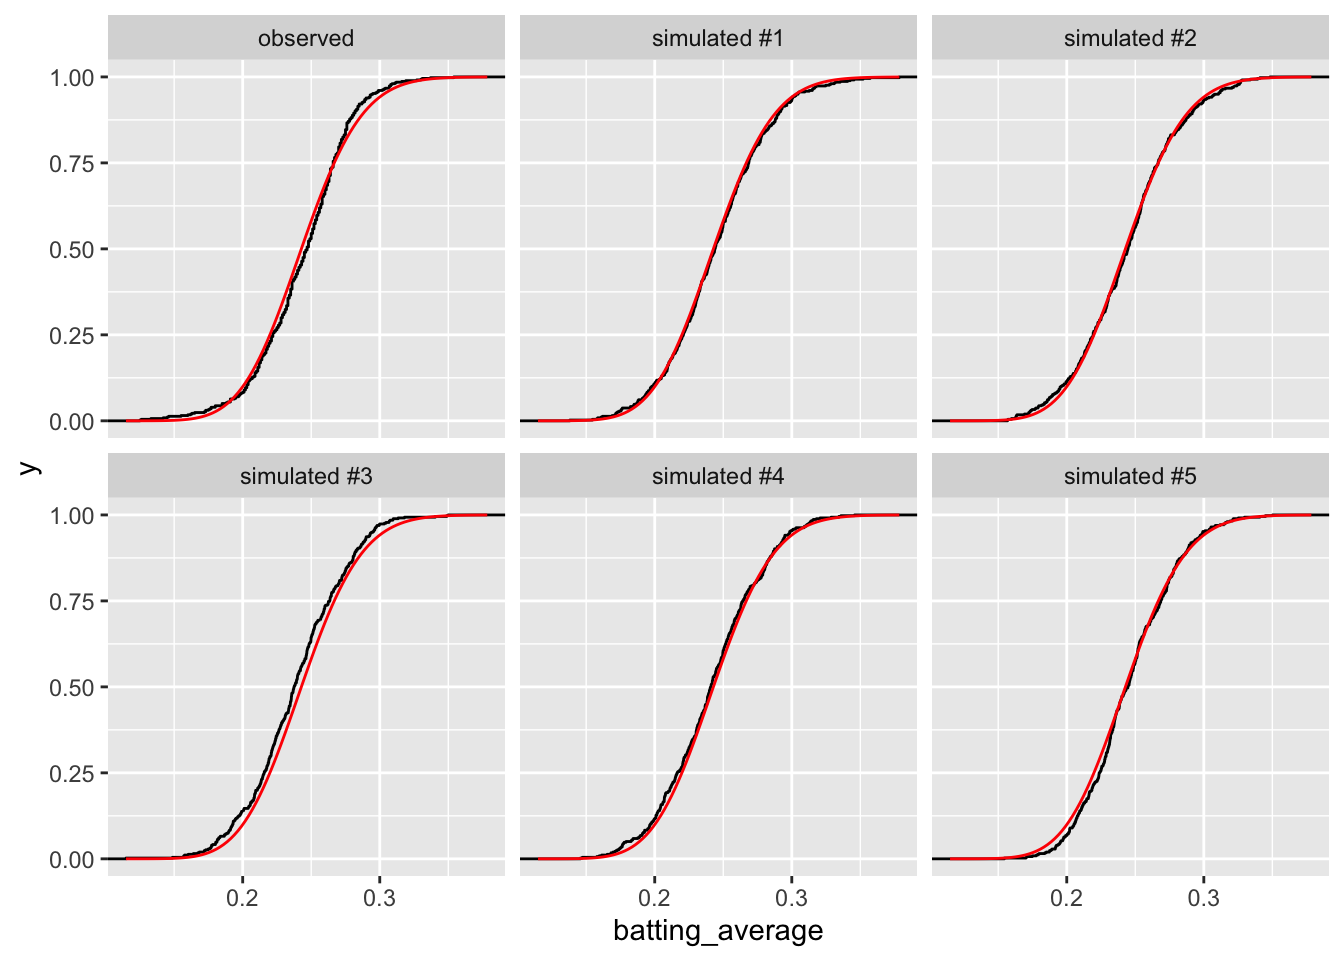
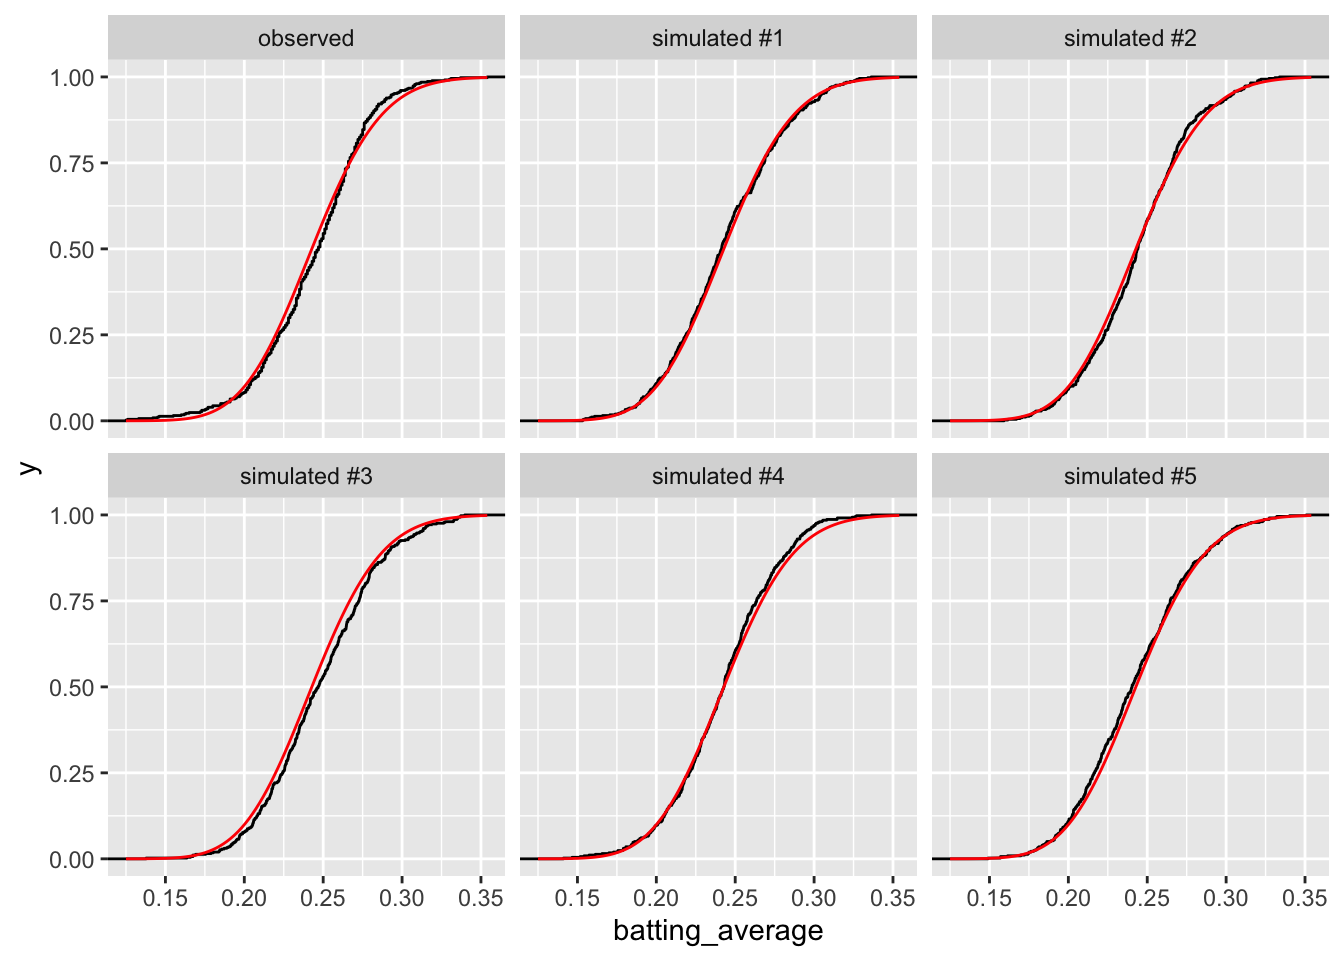
Add GA

diff --git a/docs/wk02/03-predictive-distribution.html b/docs/wk02/03-predictive-distribution.html
@@ -122,6 +122,15 @@ div.csl-indent {
     "search-label": "Search"
   }
 }</script>
+<script async="" src="https://www.googletagmanager.com/gtag/js?id=G-F57WQLHH67"></script>
+
+<script type="text/javascript">
+
+window.dataLayer = window.dataLayer || [];
+function gtag(){dataLayer.push(arguments);}
+gtag('js', new Date());
+gtag('config', 'G-F57WQLHH67', { 'anonymize_ip': true});
+</script>
 
   <script src="https://cdnjs.cloudflare.com/polyfill/v3/polyfill.min.js?features=es6"></script>
   <script src="https://cdn.jsdelivr.net/npm/mathjax@3/es5/tex-chtml-full.js" type="text/javascript"></script>
@@ -342,7 +351,7 @@ Holland, Alisha C. 2015. <span>“The Distributive Politics of Enforcement.”</
 <span id="cb3-3"><a href="#cb3-3" aria-hidden="true" tabindex="-1"></a>y_pred <span class="ot">&lt;-</span> <span class="fu">rpois</span>(n, <span class="at">lambda =</span> ml_est)</span>
 <span id="cb3-4"><a href="#cb3-4" aria-hidden="true" tabindex="-1"></a><span class="fu">print</span>(y_pred[<span class="dv">1</span><span class="sc">:</span><span class="dv">10</span>])</span></code><button title="Copy to Clipboard" class="code-copy-button"><i class="bi"></i></button></pre></div>
 <div class="cell-output cell-output-stdout">
-<pre><code> [1] 22 22 27 16 21 24 30 25 15 25</code></pre>
+<pre><code> [1] 33 27 27 29 18 30 15 16 30 21</code></pre>
 </div>
 <div class="sourceCode cell-code" id="cb5"><pre class="sourceCode r code-with-copy"><code class="sourceCode r"><span id="cb5-1"><a href="#cb5-1" aria-hidden="true" tabindex="-1"></a><span class="fu">print</span>(y[<span class="dv">1</span><span class="sc">:</span><span class="dv">10</span>])</span></code><button title="Copy to Clipboard" class="code-copy-button"><i class="bi"></i></button></pre></div>
 <div class="cell-output cell-output-stdout">
@@ -407,7 +416,7 @@ $ type       &lt;chr&gt; "observed", "observed", "observed", "observed", "observ
 <div class="cell-output cell-output-stdout">
 <pre><code>Rows: 216
 Columns: 2
-$ operations &lt;dbl&gt; 17, 23, 27, 18, 30, 23, 21, 26, 22, 22, 25, 24, 23, 18, 19,…
+$ operations &lt;dbl&gt; 21, 24, 22, 22, 25, 20, 30, 27, 23, 18, 23, 32, 31, 21, 21,…
 $ type       &lt;chr&gt; "simulated #1", "simulated #1", "simulated #1", "simulated …</code></pre>
 </div>
 <div class="sourceCode cell-code" id="cb13"><pre class="sourceCode r code-with-copy"><code class="sourceCode r"><span id="cb13-1"><a href="#cb13-1" aria-hidden="true" tabindex="-1"></a><span class="co"># plot the observed and fake data sets</span></span>
@@ -468,7 +477,7 @@ $ type            &lt;chr&gt; "observed", "observed", "observed", "observed", "o
 <div class="cell-output cell-output-stdout">
 <pre><code>Rows: 2,742
 Columns: 2
-$ batting_average &lt;dbl&gt; 0.2319739, 0.2919389, 0.2494256, 0.2562710, 0.2741193,…
+$ batting_average &lt;dbl&gt; 0.1817937, 0.2443664, 0.2311438, 0.2529022, 0.2552048,…
 $ type            &lt;chr&gt; "simulated #1", "simulated #1", "simulated #1", "simul…</code></pre>
 </div>
 <div class="sourceCode cell-code" id="cb19"><pre class="sourceCode r code-with-copy"><code class="sourceCode r"><span id="cb19-1"><a href="#cb19-1" aria-hidden="true" tabindex="-1"></a><span class="co"># plot histograms of real and fake data</span></span>
@@ -514,7 +523,7 @@ $ type            &lt;chr&gt; "simulated #1", "simulated #1", "simulated #1", "s
 <div class="cell-output cell-output-stdout">
 <pre><code>Rows: 2,742
 Columns: 3
-$ batting_average &lt;dbl&gt; 0.2319739, 0.2919389, 0.2494256, 0.2562710, 0.2741193,…
+$ batting_average &lt;dbl&gt; 0.1817937, 0.2443664, 0.2311438, 0.2529022, 0.2552048,…
 $ type            &lt;chr&gt; "simulated", "simulated", "simulated", "simulated", "s…
 $ version         &lt;chr&gt; "1", "1", "1", "1", "1", "1", "1", "1", "1", "1", "1",…</code></pre>
 </div>

diff --git a/docs/wk01/probability.html b/docs/wk01/probability.html
@@ -101,6 +101,15 @@ pre > code.sourceCode > span > a:first-child::before { text-decoration: underlin
     "search-label": "Search"
   }
 }</script>
+<script async="" src="https://www.googletagmanager.com/gtag/js?id=G-F57WQLHH67"></script>
+
+<script type="text/javascript">
+
+window.dataLayer = window.dataLayer || [];
+function gtag(){dataLayer.push(arguments);}
+gtag('js', new Date());
+gtag('config', 'G-F57WQLHH67', { 'anonymize_ip': true});
+</script>
 
   <script src="https://cdnjs.cloudflare.com/polyfill/v3/polyfill.min.js?features=es6"></script>
   <script src="https://cdn.jsdelivr.net/npm/mathjax@3/es5/tex-chtml-full.js" type="text/javascript"></script>
@@ -736,7 +745,7 @@ However, <span class="math inline">\(\mathrm{Cov}(X, Y) = 0\)</span> does not ne
 <div class="cell">
 <div class="sourceCode cell-code" id="cb1"><pre class="sourceCode r code-with-copy"><code class="sourceCode r"><span id="cb1-1"><a href="#cb1-1" aria-hidden="true" tabindex="-1"></a><span class="fu">rnorm</span>(<span class="dv">5</span>, <span class="at">mean =</span> <span class="dv">2</span>, <span class="at">sd =</span> <span class="dv">1</span>)</span></code><button title="Copy to Clipboard" class="code-copy-button"><i class="bi"></i></button></pre></div>
 <div class="cell-output cell-output-stdout">
-<pre><code>[1] 0.661525 0.751578 3.293954 1.601687 1.483257</code></pre>
+<pre><code>[1] 1.974739 2.396793 2.512048 2.295439 1.534499</code></pre>
 </div>
 </div>
 </div>

diff --git a/docs/wk01/calculus-1.html b/docs/wk01/calculus-1.html
@@ -102,6 +102,15 @@ pre > code.sourceCode > span > a:first-child::before { text-decoration: underlin
     "search-label": "Search"
   }
 }</script>
+<script async="" src="https://www.googletagmanager.com/gtag/js?id=G-F57WQLHH67"></script>
+
+<script type="text/javascript">
+
+window.dataLayer = window.dataLayer || [];
+function gtag(){dataLayer.push(arguments);}
+gtag('js', new Date());
+gtag('config', 'G-F57WQLHH67', { 'anonymize_ip': true});
+</script>
 
   <script src="https://cdnjs.cloudflare.com/polyfill/v3/polyfill.min.js?features=es6"></script>
   <script src="https://cdn.jsdelivr.net/npm/mathjax@3/es5/tex-chtml-full.js" type="text/javascript"></script>

diff --git a/docs/wk01/calculus-2.html b/docs/wk01/calculus-2.html
@@ -102,6 +102,15 @@ pre > code.sourceCode > span > a:first-child::before { text-decoration: underlin
     "search-label": "Search"
   }
 }</script>
+<script async="" src="https://www.googletagmanager.com/gtag/js?id=G-F57WQLHH67"></script>
+
+<script type="text/javascript">
+
+window.dataLayer = window.dataLayer || [];
+function gtag(){dataLayer.push(arguments);}
+gtag('js', new Date());
+gtag('config', 'G-F57WQLHH67', { 'anonymize_ip': true});
+</script>
 
   <script src="https://cdnjs.cloudflare.com/polyfill/v3/polyfill.min.js?features=es6"></script>
   <script src="https://cdn.jsdelivr.net/npm/mathjax@3/es5/tex-chtml-full.js" type="text/javascript"></script>

diff --git a/docs/wk01/frac-exp-log.html b/docs/wk01/frac-exp-log.html
@@ -102,6 +102,15 @@ pre > code.sourceCode > span > a:first-child::before { text-decoration: underlin
     "search-label": "Search"
   }
 }</script>
+<script async="" src="https://www.googletagmanager.com/gtag/js?id=G-F57WQLHH67"></script>
+
+<script type="text/javascript">
+
+window.dataLayer = window.dataLayer || [];
+function gtag(){dataLayer.push(arguments);}
+gtag('js', new Date());
+gtag('config', 'G-F57WQLHH67', { 'anonymize_ip': true});
+</script>
 
   <script src="https://cdnjs.cloudflare.com/polyfill/v3/polyfill.min.js?features=es6"></script>
   <script src="https://cdn.jsdelivr.net/npm/mathjax@3/es5/tex-chtml-full.js" type="text/javascript"></script>

diff --git a/docs/wk01/matrices.html b/docs/wk01/matrices.html
@@ -102,6 +102,15 @@ pre > code.sourceCode > span > a:first-child::before { text-decoration: underlin
     "search-label": "Search"
   }
 }</script>
+<script async="" src="https://www.googletagmanager.com/gtag/js?id=G-F57WQLHH67"></script>
+
+<script type="text/javascript">
+
+window.dataLayer = window.dataLayer || [];
+function gtag(){dataLayer.push(arguments);}
+gtag('js', new Date());
+gtag('config', 'G-F57WQLHH67', { 'anonymize_ip': true});
+</script>
 
   <script src="https://cdnjs.cloudflare.com/polyfill/v3/polyfill.min.js?features=es6"></script>
   <script src="https://cdn.jsdelivr.net/npm/mathjax@3/es5/tex-chtml-full.js" type="text/javascript"></script>

diff --git a/docs/appendicies/999-distributions.html b/docs/appendicies/999-distributions.html
@@ -68,6 +68,15 @@ ul.task-list li input[type="checkbox"] {
     "search-label": "Search"
   }
 }</script>
+<script async="" src="https://www.googletagmanager.com/gtag/js?id=G-F57WQLHH67"></script>
+
+<script type="text/javascript">
+
+window.dataLayer = window.dataLayer || [];
+function gtag(){dataLayer.push(arguments);}
+gtag('js', new Date());
+gtag('config', 'G-F57WQLHH67', { 'anonymize_ip': true});
+</script>
 
   <script src="https://cdnjs.cloudflare.com/polyfill/v3/polyfill.min.js?features=es6"></script>
   <script src="https://cdn.jsdelivr.net/npm/mathjax@3/es5/tex-chtml-full.js" type="text/javascript"></script>

diff --git a/docs/wk02/01-maximum-likelihood.html b/docs/wk02/01-maximum-likelihood.html
@@ -122,6 +122,15 @@ div.csl-indent {
     "search-label": "Search"
   }
 }</script>
+<script async="" src="https://www.googletagmanager.com/gtag/js?id=G-F57WQLHH67"></script>
+
+<script type="text/javascript">
+
+window.dataLayer = window.dataLayer || [];
+function gtag(){dataLayer.push(arguments);}
+gtag('js', new Date());
+gtag('config', 'G-F57WQLHH67', { 'anonymize_ip': true});
+</script>
 
   <script src="https://cdnjs.cloudflare.com/polyfill/v3/polyfill.min.js?features=es6"></script>
   <script src="https://cdn.jsdelivr.net/npm/mathjax@3/es5/tex-chtml-full.js" type="text/javascript"></script>

diff --git a/docs/wk02/02-invariance-property.html b/docs/wk02/02-invariance-property.html
@@ -122,6 +122,15 @@ div.csl-indent {
     "search-label": "Search"
   }
 }</script>
+<script async="" src="https://www.googletagmanager.com/gtag/js?id=G-F57WQLHH67"></script>
+
+<script type="text/javascript">
+
+window.dataLayer = window.dataLayer || [];
+function gtag(){dataLayer.push(arguments);}
+gtag('js', new Date());
+gtag('config', 'G-F57WQLHH67', { 'anonymize_ip': true});
+</script>
 
   <script src="https://cdnjs.cloudflare.com/polyfill/v3/polyfill.min.js?features=es6"></script>
   <script src="https://cdn.jsdelivr.net/npm/mathjax@3/es5/tex-chtml-full.js" type="text/javascript"></script>

diff --git a/docs/index.html b/docs/index.html
@@ -68,6 +68,15 @@ ul.task-list li input[type="checkbox"] {
     "search-label": "Search"
   }
 }</script>
+<script async="" src="https://www.googletagmanager.com/gtag/js?id=G-F57WQLHH67"></script>
+
+<script type="text/javascript">
+
+window.dataLayer = window.dataLayer || [];
+function gtag(){dataLayer.push(arguments);}
+gtag('js', new Date());
+gtag('config', 'G-F57WQLHH67', { 'anonymize_ip': true});
+</script>
 
 
 <link rel="stylesheet" href="_styles.css">
